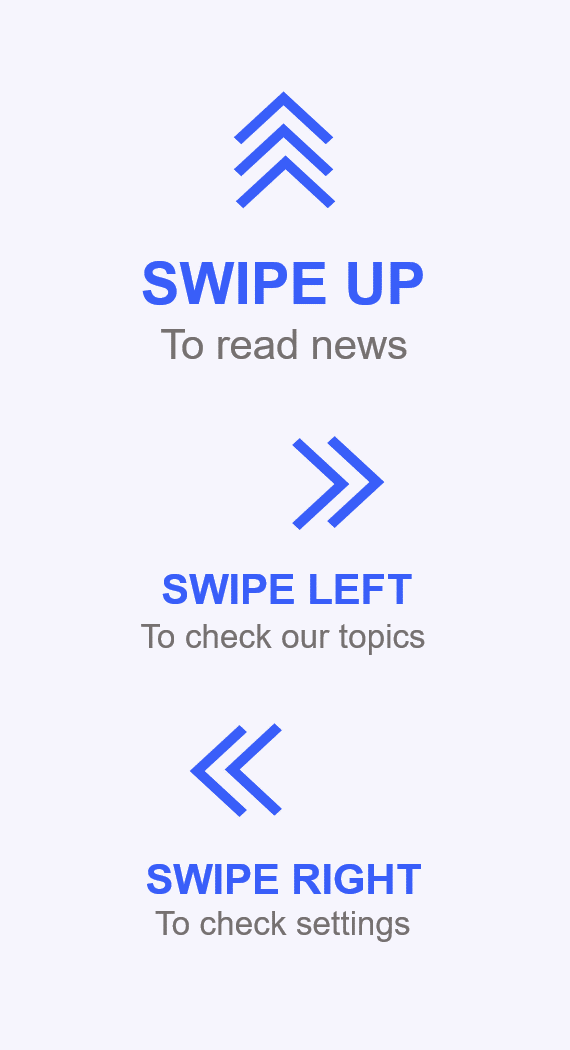
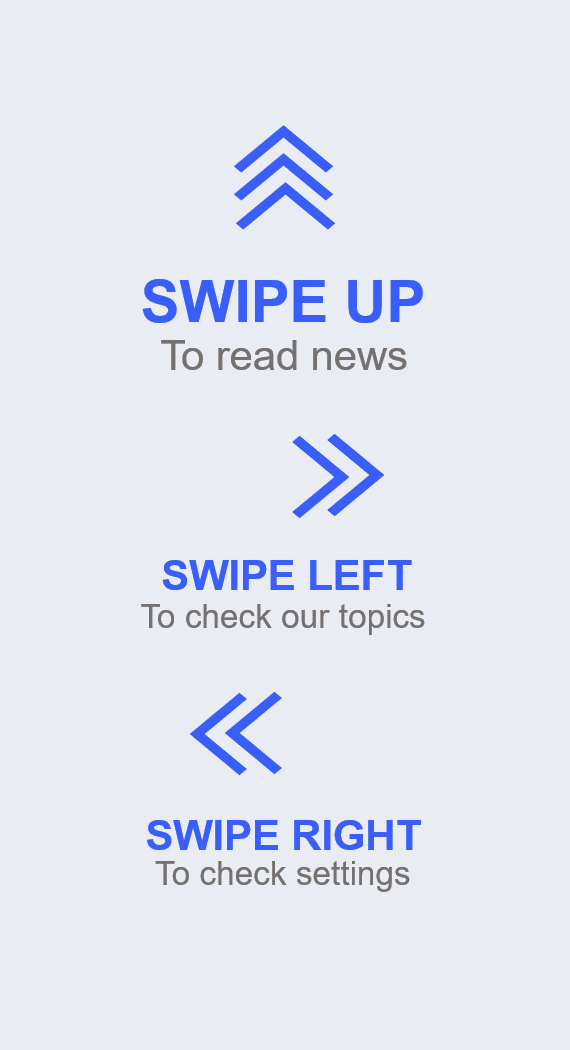
web

diff --git a/flutter_service_worker.js b/flutter_service_worker.js
@@ -7,7 +7,7 @@ const RESOURCES = {
 "assets/assets/icons/streetview.ttf": "40a124095bd719cd3ede0cd34e5a070f",
 "assets/assets/icons/heart.ttf": "5d0e5ab95838a74b0798e8867e1a5382",
 "assets/assets/images/logo.png": "f5fcd43522c970b6c5edbe846da2d662",
-"assets/assets/images/firstImage.png": "3814638e12b920a06dc1ae7df2d9b7ed",
+"assets/assets/images/firstImage.png": "fde16375af1da2109aaa15ede1b45692",
 "assets/assets/images/appstore.png": "77ca8b6daef7f3a2c81f8266a17cd96a",
 "assets/assets/images/playstore.png": "8f5bfed7645d1a99c8390a93d3126cce",
 "assets/assets/fonts/PTSansNarrow-Regular.ttf": "afae664e1b2d250ffe1b7ffef5f5ddf5",
